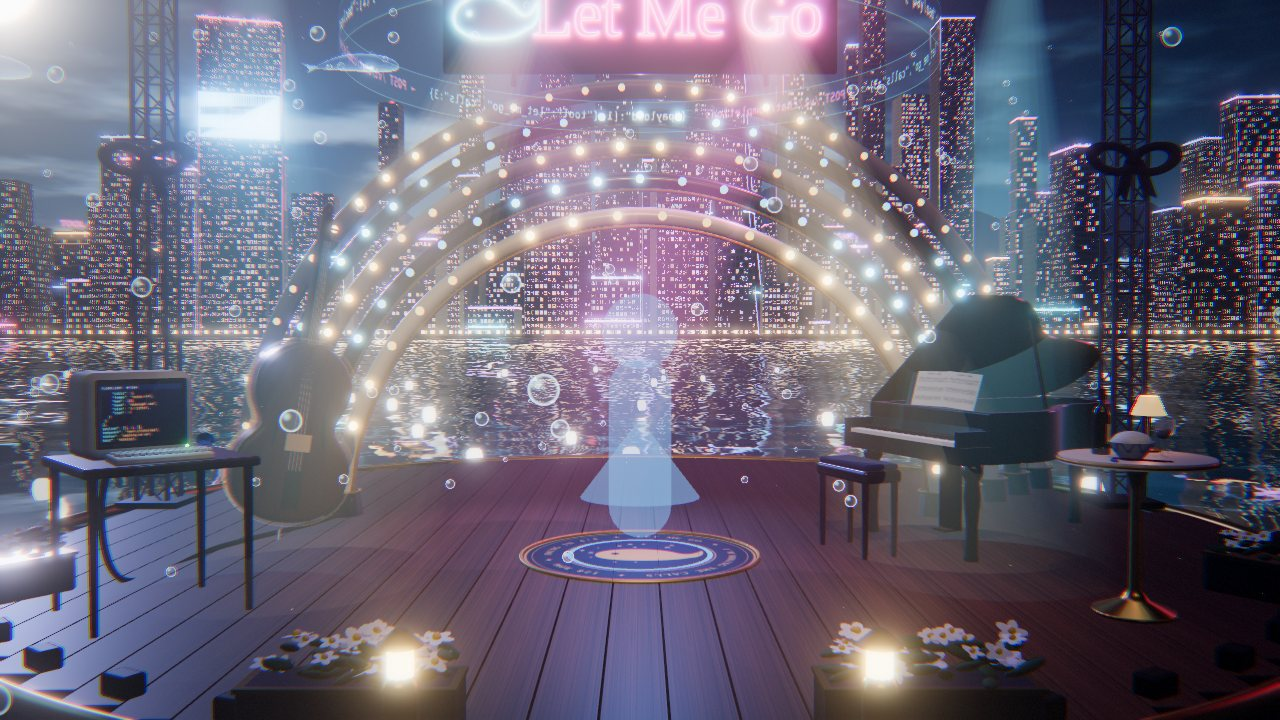
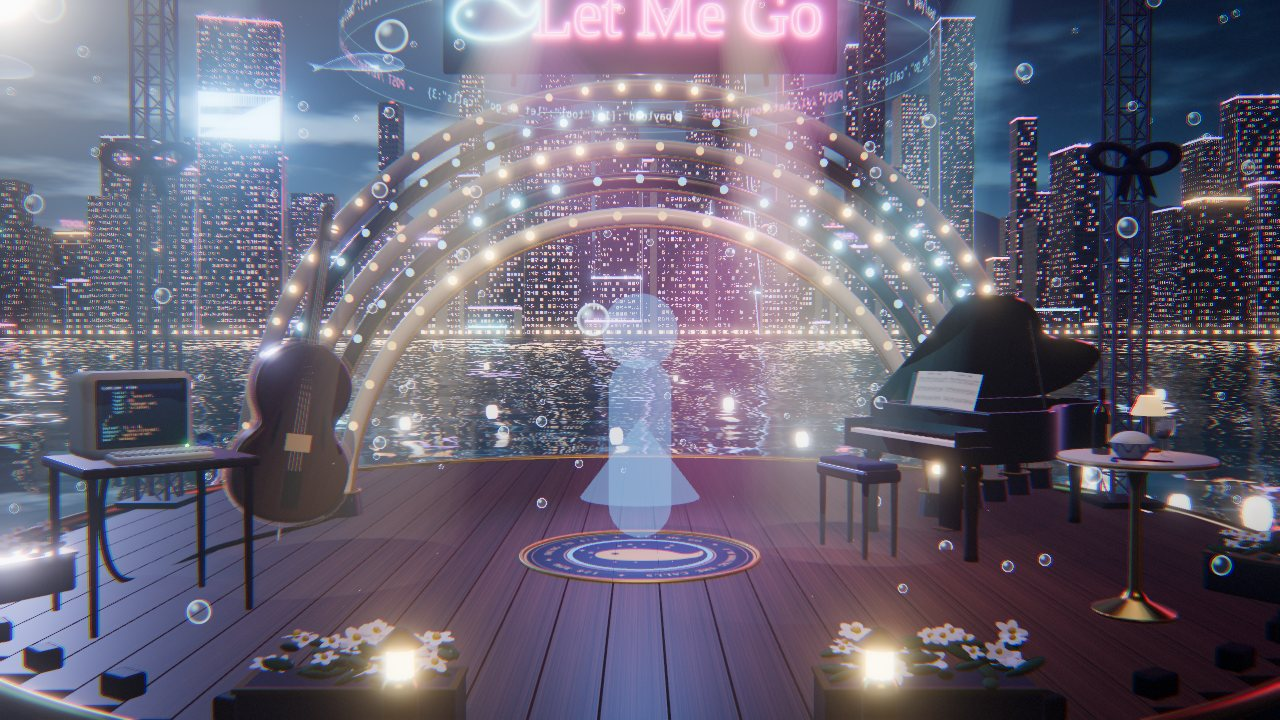
Thinner theme dissolve edge and README shots for every theme
- postfx: the dissolve edge is a thin bright line with a faint halo that
  fades in and out, instead of a wide glow that bloom blew into a fog ring
- docs/shots: ancient, japan, clouds and atlantis; refreshed harbor shots

Claude-Session: https://claude.ai/code/session_016QtY6ZKE7koLfBgUM8Ho34

diff --git a/src/postfx.js b/src/postfx.js
@@ -113,11 +113,14 @@ const MixShader = {
       vec3 a = texture2D(tA, vUv).rgb;
       vec3 b = texture2D(tB, vUv).rgb;
       vec3 col = mix(b, a, k);
-      float edge = exp(-pow((mask - th) / w, 2.0)) * step(0.001, uP) * step(uP, 0.999);
-      col += uEdge * edge * 2.2;
+      // 溶解边：一条细亮线 + 很淡的外晕（泛光会再把它晕开，所以本身要克制），首尾淡入淡出
+      float env = sin(clamp(uP, 0.0, 1.0) * 3.14159);
+      float core = exp(-pow((mask - th) / (w * 0.3), 2.0));
+      float glow = exp(-pow((mask - th) / (w * 1.2), 2.0));
+      col += uEdge * (core * 1.0 + glow * 0.15) * env;
       // 边缘附近零星的火花
-      float sp = step(0.985, h(floor(vUv * vec2(uAspect, 1.0) * 220.0) + floor(uTime * 12.0))) * exp(-pow((mask - th) / (w * 3.0), 2.0));
-      col += uEdge * sp * 3.0 * step(0.001, uP) * step(uP, 0.999);
+      float sp = step(0.988, h(floor(vUv * vec2(uAspect, 1.0) * 260.0) + floor(uTime * 12.0))) * exp(-pow((mask - th) / (w * 1.5), 2.0));
+      col += uEdge * sp * 1.5 * env;
       gl_FragColor = vec4(col, 1.0);
     }
   `,
